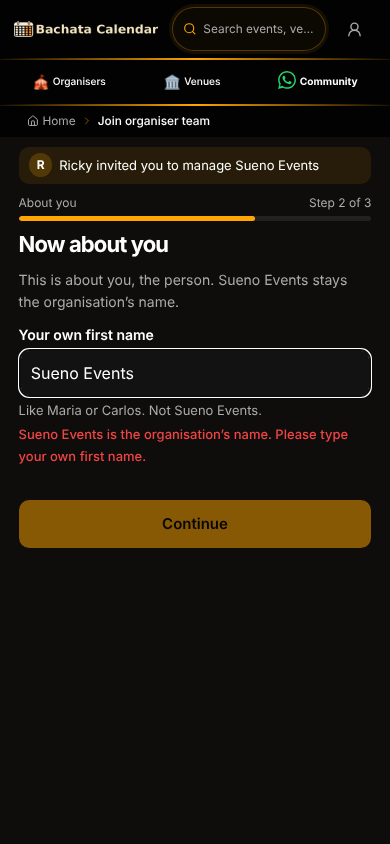
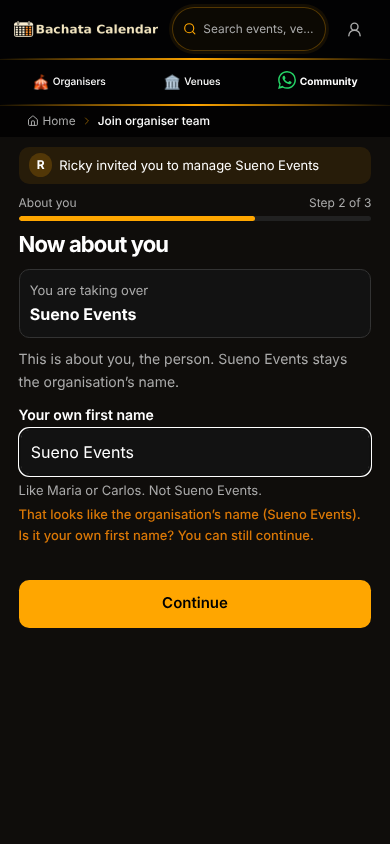
feat(invite): Now about you shows the organisation, soft close-name prompt [worker-done dt_287819c708d5] (#1660)
Claude-Session: https://claude.ai/code/session_01WoGkiAKGstwPgRdcqzmdAV

diff --git a/src/modules/admin-organisers/join/AboutStep.tsx b/src/modules/admin-organisers/join/AboutStep.tsx
@@ -12,7 +12,7 @@ import { MY_DANCER_SUMMARY_ROOT } from '@/lib/myPersona';
 import { PROFILE_FIELDS, listFieldLabels, type ProfileCompletion, type ProfileField } from '@/lib/profileCompletion';
 import { saveMyDancerProfile, type SaveMyDancerProfileInput } from '@/lib/saveMyDancerProfile';
 import { JOIN_COPY } from './joinCopy';
-import { nameIsOrganisation, type JoinPreview } from './joinModel';
+import { nameIsCloseToOrganisation, type JoinPreview } from './joinModel';
 import { BTN, ErrorLine, FIELD, Lead, WHY } from './JoinScreens';
 
 type Draft = Record<ProfileField, string>;
@@ -55,9 +55,9 @@ export function AboutStep({ completion, preview, linked, claimFirst = false, onS
   const [failed, setFailed] = useState(false);
   const set = (key: ProfileField, value: string) => setDraft((d) => ({ ...d, [key]: value }));
   const org = preview.organiserName;
-  // Claim-first: the organisation's own name typed as the person's first name (the real case) keeps Continue off.
-  const nameIsOrg = claimFirst && fields.includes('first_name') && nameIsOrganisation(draft.first_name, org);
-  const pending = nameIsOrg ? null : buildAboutSave(fields, draft);
+  // Claim-first: a first name close to the organisation's name gets a SOFT prompt; it never blocks Continue.
+  const nameIsOrg = claimFirst && fields.includes('first_name') && nameIsCloseToOrganisation(draft.first_name, org);
+  const pending = buildAboutSave(fields, draft);
   const missing = stillMissing(fields, draft);
 
   const save = async (e: React.FormEvent) => {
@@ -80,15 +80,18 @@ export function AboutStep({ completion, preview, linked, claimFirst = false, onS
   return (
     <form className="flex flex-col gap-3" noValidate onSubmit={(e) => void save(e)} data-testid="join-about-form">
       {linked && <p className="rounded-xl border border-emerald-500/40 bg-emerald-500/10 p-3 text-[13px]" role="status" data-testid="join-about-linked">{JOIN_COPY.about.linked}</p>}
+      {claimFirst && (
+        <p className="min-w-0 break-words rounded-xl border border-border bg-card p-3 text-[13px] text-muted-foreground" data-testid="join-about-org">{JOIN_COPY.aboutYou.organisation}<span className="block text-[16px] font-bold text-foreground">{org}</span></p>
+      )}
       {/* Claim-first: one plain line about the PERSON (the "Four things" count is wrong when only some are asked). */}
       <Lead testId="join-about-lead">{linked && fields.length < PROFILE_FIELDS.length ? JOIN_COPY.about.missing(fields.length) : claimFirst ? JOIN_COPY.aboutYou.lead(org) : JOIN_COPY.about.lead}</Lead>
 
       {fields.includes('first_name') && (
         <div className="flex flex-col gap-1">
           <label htmlFor="join-first-name" className="text-[14px] font-semibold">{claimFirst ? JOIN_COPY.aboutYou.firstName : JOIN_COPY.about.firstName}</label>
-          <input id="join-first-name" autoComplete="given-name" className={FIELD} aria-describedby="join-first-name-help" aria-invalid={nameIsOrg || undefined} value={draft.first_name} onChange={(e) => set('first_name', e.target.value)} data-testid="join-about-first-name" />
+          <input id="join-first-name" autoComplete="given-name" className={FIELD} aria-describedby="join-first-name-help" value={draft.first_name} onChange={(e) => set('first_name', e.target.value)} data-testid="join-about-first-name" />
           <p id="join-first-name-help" className="text-[13px] text-muted-foreground">{claimFirst ? JOIN_COPY.aboutYou.firstNameHelp(org) : JOIN_COPY.about.firstNameHelp}</p>
-          {nameIsOrg && <p className="text-[13px] font-medium text-destructive" role="alert" id="join-about-name-is-org" data-testid="join-about-name-is-org">{JOIN_COPY.aboutYou.sameAsOrg(org)}</p>}
+          {nameIsOrg && <p className="text-[13px] font-medium text-amber-600" role="status" id="join-about-name-is-org" data-testid="join-about-name-is-org">{JOIN_COPY.aboutYou.sameAsOrg(org)}</p>}
         </div>
       )}
       {fields.includes('based_city_id') && (
@@ -111,7 +114,7 @@ export function AboutStep({ completion, preview, linked, claimFirst = false, onS
       )}
 
       <ErrorLine id="join-about-error">{failed ? JOIN_COPY.about.saveFailed : null}</ErrorLine>
-      <button type="submit" className={BTN} disabled={!pending || saving} aria-describedby={nameIsOrg ? 'join-about-name-is-org' : !pending ? 'join-about-why' : undefined} data-testid="join-about-save">{saving ? JOIN_COPY.about.saving : JOIN_COPY.about.button}</button>
+      <button type="submit" className={BTN} disabled={!pending || saving} aria-describedby={!pending ? 'join-about-why' : undefined} data-testid="join-about-save">{saving ? JOIN_COPY.about.saving : JOIN_COPY.about.button}</button>
       <p id="join-about-why" className={WHY} data-testid="join-about-why">{missing.length > 0 ? JOIN_COPY.about.stillToAdd(listFieldLabels(missing)) : ''}</p>
     </form>
   );

diff --git a/src/modules/admin-organisers/join/__tests__/claimFirst.matrix.test.tsx b/src/modules/admin-organisers/join/__tests__/claimFirst.matrix.test.tsx
@@ -12,7 +12,7 @@ import { cleanup, fireEvent, render, screen, waitFor } from '@testing-library/re
 import { QueryClient, QueryClientProvider } from '@tanstack/react-query';
 import { MemoryRouter, Route, Routes } from 'react-router-dom';
 import type { ProfileCompletion } from '@/lib/profileCompletion';
-import { nameIsOrganisation, organiserLogoUrl, parseJoinPreview, recallClaimConfirmed, rememberClaimConfirmed, showClaimFirst, type JoinStep } from '../joinModel';
+import { nameIsCloseToOrganisation, nameIsOrganisation, organiserLogoUrl, parseJoinPreview, recallClaimConfirmed, rememberClaimConfirmed, showClaimFirst, type JoinStep } from '../joinModel';
 
 const TOKEN = 'cd'.repeat(32);
 const ORG = 'Sueno Events';
@@ -194,13 +194,13 @@ describe('claim screen (flag on)', () => {
     expect(screen.getByTestId('join-about-lead').textContent).toContain(ORG);
     const input = screen.getByTestId('join-about-first-name');
     const save = screen.getByTestId('join-about-save') as HTMLButtonElement;
-    // Untouched: Continue is off with a reason, and nothing is saved.
+    expect(screen.getByTestId('join-about-org').textContent).toContain(ORG);
+    // Untouched: Continue is off (nothing typed), and nothing is saved.
     expect(save.disabled).toBe(true);
     for (const typed of ['Sueno Events', '  sueno events ', 'SUENO-EVENTS', 'Suéno Events']) {
       fireEvent.change(input, { target: { value: typed } });
-      expect(save.disabled).toBe(true);
+      expect(save.disabled).toBe(false); // soft prompt only
       expect(screen.getByTestId('join-about-name-is-org').textContent).toContain('your own first name');
-      expect(save.getAttribute('aria-describedby')).toBe('join-about-name-is-org');
     }
     fireEvent.change(input, { target: { value: 'Maria' } });
     expect(save.disabled).toBe(false);
@@ -241,6 +241,17 @@ describe('claim-first model', () => {
     ['Café Latino', 'Cafe Latino', true],
   ])('nameIsOrganisation(%j, %j) = %s', (first, org, want) => {
     expect(nameIsOrganisation(first, org)).toBe(want);
+  });
+
+  it.each([
+    ['Sueno Evnts', 'Sueno Events', true],
+    ['Sueno Events Crew', 'Sueno Events', true],
+    ['Sueno', 'Sueno Events', false],
+    ['Maria', 'Maria Bachata', false],
+    ['Ana', 'Ann', false],
+    ['', 'Sueno Events', false],
+  ])('nameIsCloseToOrganisation(%j, %j) = %s', (first, org, want) => {
+    expect(nameIsCloseToOrganisation(first, org)).toBe(want);
   });
 
   it('logo: https only, else null; parseJoinPreview carries it', () => {

diff --git a/src/modules/admin-organisers/join/joinModel.ts b/src/modules/admin-organisers/join/joinModel.ts
@@ -190,6 +190,31 @@ export function nameIsOrganisation(firstName: string, organiserName: string): bo
   return a !== '' && a === nameKey(organiserName);
 }
 
+const editDistance = (a: string, b: string): number => {
+  let prev = Array.from({ length: b.length + 1 }, (_, j) => j);
+  for (let i = 1; i <= a.length; i++) {
+    const cur = [i];
+    for (let j = 1; j <= b.length; j++) cur[j] = Math.min(prev[j] + 1, cur[j - 1] + 1, prev[j - 1] + (a[i - 1] === b[j - 1] ? 0 : 1));
+    prev = cur;
+  }
+  return prev[b.length];
+};
+
+/**
+ * SOFT check for the "Now about you" step: the typed first name is the organisation's name, or a near miss of it
+ * (a typo, or the whole organisation name with a word added). Only ever a prompt, never a block: a person really
+ * called Maria may run "Maria Bachata", and a name INSIDE the organisation's is not close.
+ */
+export function nameIsCloseToOrganisation(firstName: string, organiserName: string): boolean {
+  const a = nameKey(firstName);
+  const o = nameKey(organiserName);
+  if (a === '' || o === '') return false;
+  if (a === o) return true;
+  if (o.length >= 4 && a.includes(o)) return true;
+  const slack = o.length >= 8 ? 2 : o.length >= 4 ? 1 : 0;
+  return slack > 0 && editDistance(a, o) <= slack;
+}
+
 // ---- the step table -------------------------------------------------------------------------
 
 export type JoinStep =

diff --git a/src/modules/admin-organisers/join/joinCopy.ts b/src/modules/admin-organisers/join/joinCopy.ts
@@ -98,11 +98,12 @@ export const JOIN_COPY = {
   // Claim-first About: a separate step about the PERSON (the real case: an invitee typed the organisation as their name).
   aboutYou: {
     heading: 'Now about you',
+    organisation: 'You are taking over',
     lead: (org: string) => `This is about you, the person. ${org} stays the organisation${APOS}s name.`,
     firstName: 'Your own first name',
     firstNameHelp: (org: string) => `Like Maria or Carlos. Not ${org}.`,
     // Typed exactly the organisation's name: Continue stays off and this says why.
-    sameAsOrg: (org: string) => `${org} is the organisation${APOS}s name. Please type your own first name.`,
+    sameAsOrg: (org: string) => `That looks like the organisation${APOS}s name (${org}). Is it your own first name? You can still continue.`,
   },
 
   join: {

diff --git a/tests/e2e/walk-claim-first-invite.spec.ts b/tests/e2e/walk-claim-first-invite.spec.ts
@@ -48,7 +48,7 @@ test('C1 signed out: claim first, then email', async ({ page }) => {
   await snap(page, 'C2-email-after-claim');
 });
 
-test('C3 signed in, no name yet: claim, then Now about you, org name refused', async ({ page }) => {
+test('C3 signed in, no name yet: claim, then Now about you, org name soft prompt', async ({ page }) => {
   await setup(page, OPEN, { complete: false });
   await page.goto(`/invite/${TOKEN}`);
   await page.getByTestId('join-claim').waitFor({ timeout: 30000 });

diff --git a/docs/handover-claim-first-organiser-invite.md b/docs/handover-claim-first-organiser-invite.md
@@ -38,3 +38,10 @@ Brief: `docs/briefs/claim-first-organiser-invite-fix1.md` on `brief/claim-first-
 - contract-check at 0c8f5bd was red on live-DB checks that do not name this PR's files:
   `purge_stale_dates_v1` unruled delete path / `check_occurrence_delete_booking_safety_v1` missing (admin migration 20260810220000),
   and the event-write door guard live report (`healthy=false`, 5 violations). Needs the admin repo, not this branch.
+
+## Round 2 (2026-11-14, ticket dt_287819c708d5) — brief `docs/briefs/invite-claim-then-about-you.md`
+- Done: "Now about you" shows the organisation ("You are taking over / <name>") above the person fields.
+- Done: the organisation-name check is now SOFT (`nameIsCloseToOrganisation`: same name, a typo, or the whole name plus a word). Amber `role=status` line; Continue is NOT blocked. Flag off = unchanged.
+- Tests: `claimFirst.matrix.test.tsx` 86 pass; join folder 734 pass. Walk (flag on) 4/4, shots refreshed. Note: the walk needs `VITE_ENABLE_CLAIM_FIRST_INVITE=true` or C1/C3 time out (same on main).
+- tsc (tsconfig.app.json): 0 errors in touched files; 5 pre-existing errors in untouched join test files.
+- Left: logo still needs admin `organiser_invite_preview_v1` to return `organiser_logo_url` (admin repo). Not verified: real prod SELECT shape survey this run, real-device phone, teamsueno2026 (untouched by flag-gated code, not exercised).
